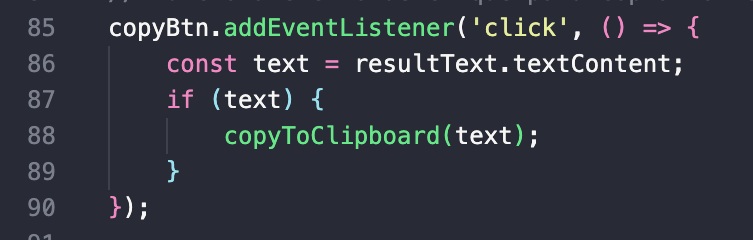
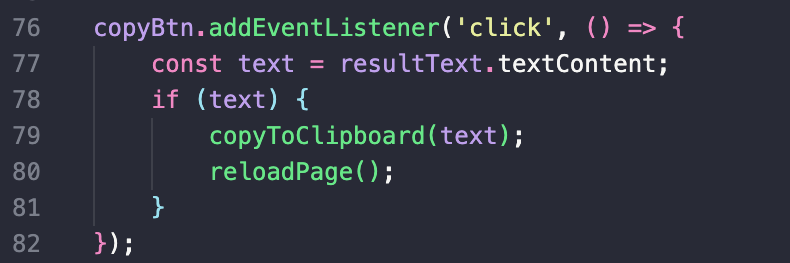
atualizado README

diff --git a/README.md b/README.md
@@ -202,7 +202,7 @@ O arquivo style.css define a aparência e o layout da página. A seguir estão a
 
 <img src='./assets/image-10.png' alt='copia texto'>
 
-<p>Adiciona um evento de clique ao botão de copiar, copiando o texto resultante para a área de transferência.</p>
+<p>Adiciona um evento de clique ao botão de copiar, copiando o texto resultante para a área de transferência e reinicia a página depois de clicado no ok do alert.</p>
 
 ### Evento para Atualização Inicial
 
